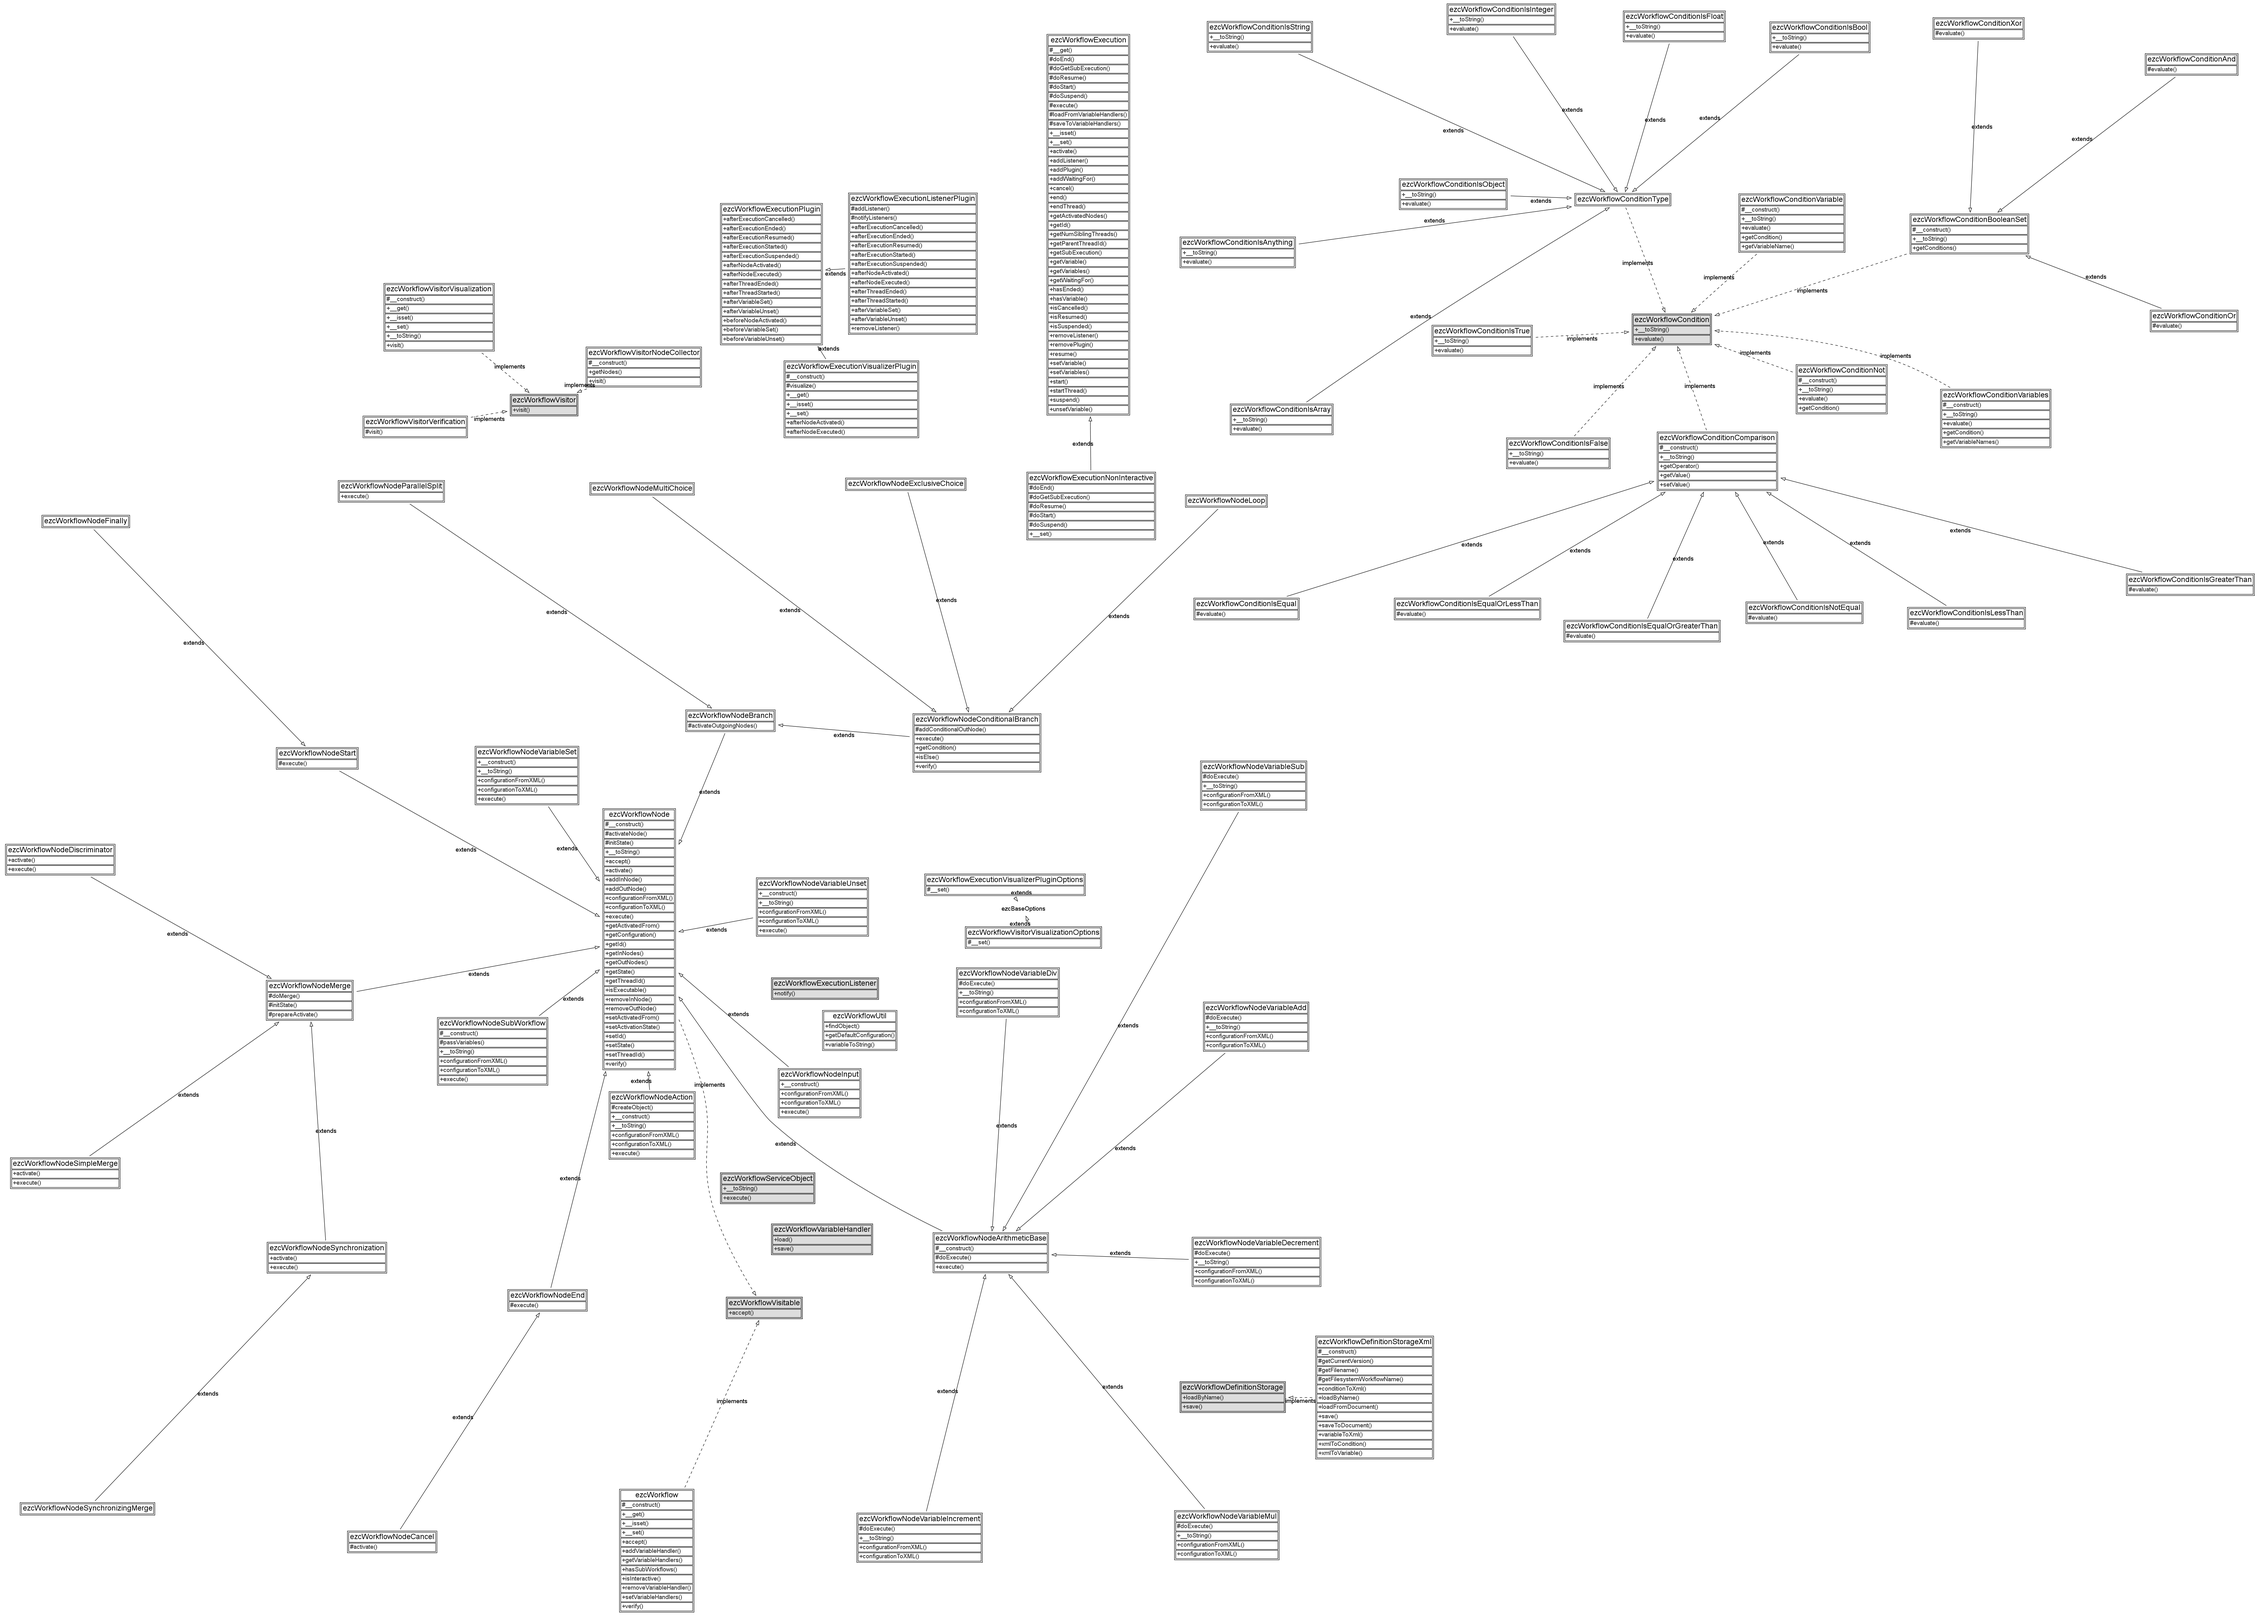
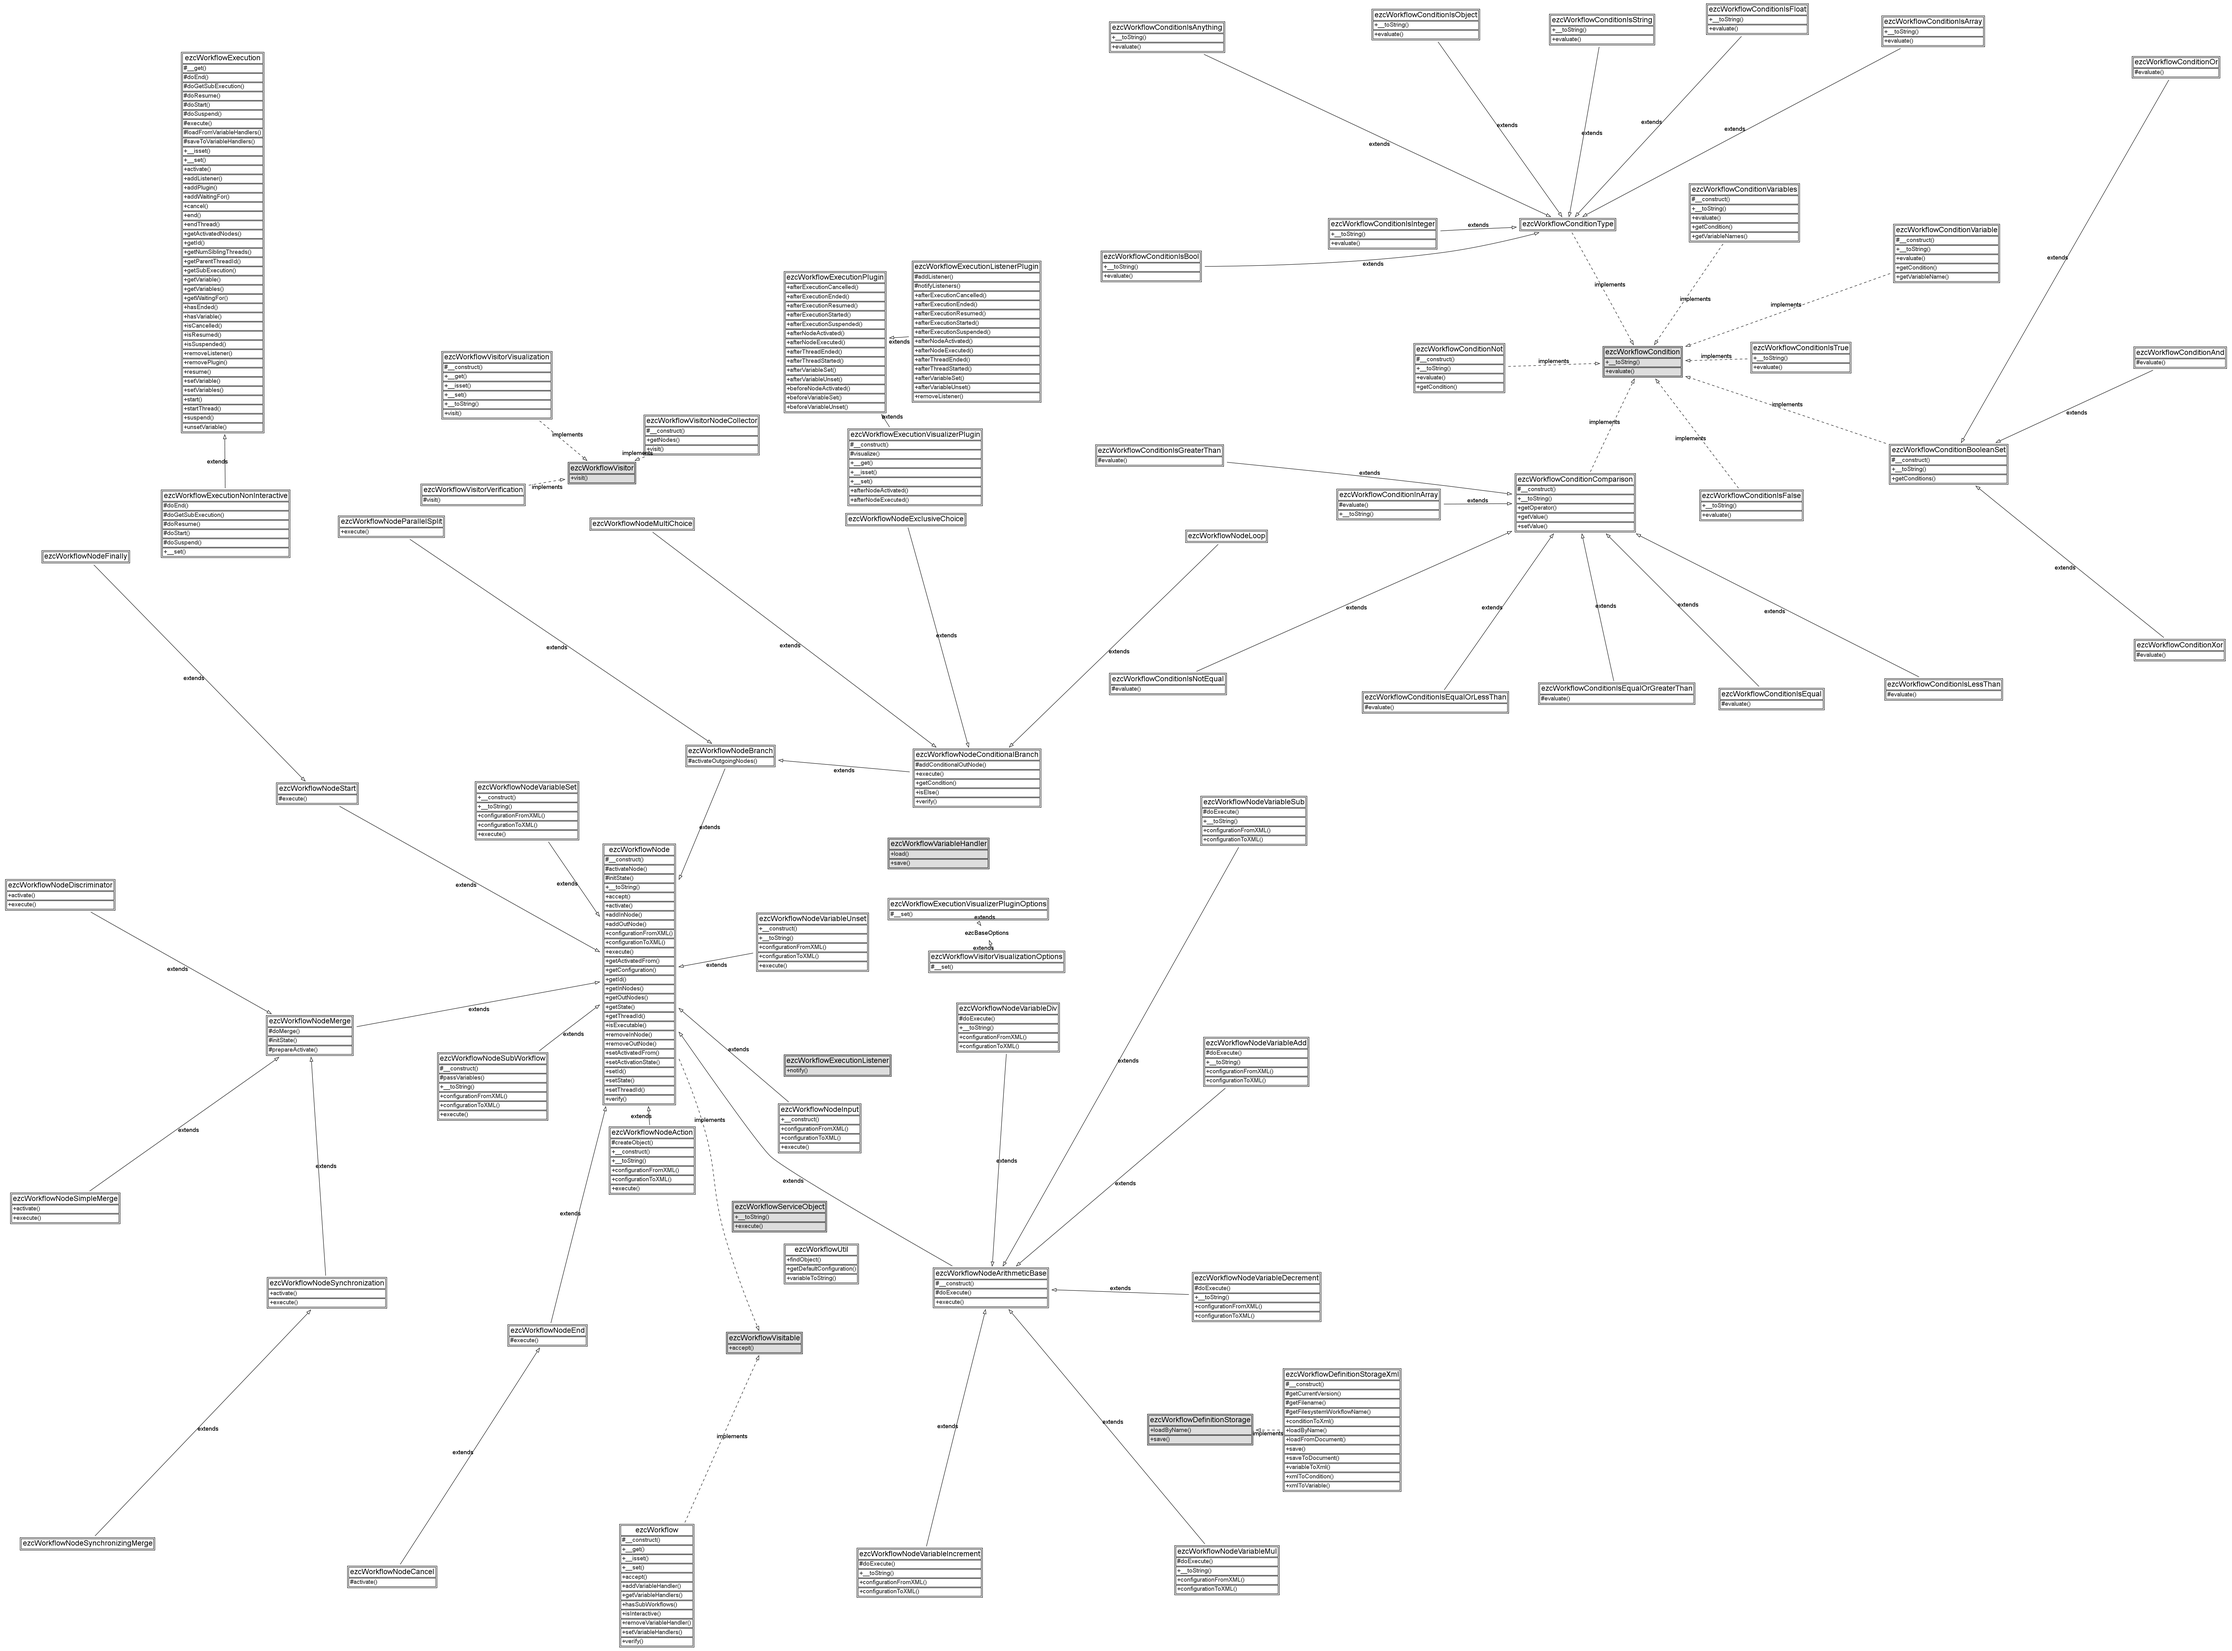
- Implemented issue #13204: Implement ezcWorkflowConditionInArray.
git-svn-id: https://svn.apache.org/repos/asf/incubator/zetacomponents/trunk@975789 13f79535-47bb-0310-9956-ffa450edef68

diff --git a/Workflow/src/conditions/in_array.php b/Workflow/src/conditions/in_array.php
@@ -1,0 +1,67 @@
+<?php
+/**
+ * File containing the ezcWorkflowConditionInArray class.
+ *
+ * @package Workflow
+ * @version //autogen//
+ * @copyright Copyright (C) 2005-2008 eZ systems as. All rights reserved.
+ * @license http://ez.no/licenses/new_bsd New BSD License
+ */
+
+/**
+ * Condition that checks if a value is in an array.
+ *
+ * Typically used together with ezcWorkflowConditionVariable to use the
+ * condition on a workflow variable.
+ *
+ * <code>
+ * <?php
+ * $condition = new ezcWorkflowConditionVariable(
+ *   'variable name',
+ *   new ezcWorkflowConditionInArray( array( ... ) )
+ * );
+ * ?>
+ * </code>
+ *
+ * @package Workflow
+ * @version //autogen//
+ */
+class ezcWorkflowConditionInArray extends ezcWorkflowConditionComparison
+{
+    /**
+     * @var mixed
+     */
+    protected $operator = 'in array';
+
+    /**
+     * Evaluates this condition with $value and returns true if it is false or false if it is not.
+     *
+     * @param  mixed $value
+     * @return boolean true when the condition holds, false otherwise.
+     * @ignore
+     */
+    public function evaluate( $value )
+    {
+        return in_array( $value, $this->value );
+    }
+
+    /**
+     * Returns a textual representation of this condition.
+     *
+     * @return string
+     * @ignore
+     */
+    public function __toString()
+    {
+        $array = $this->value;
+        $count = count( $array );
+
+        for ( $i = 0; $i < $count; $i++ )
+        {
+            $array[$i] = var_export( $array[$i], true );
+        }
+
+        return $this->operator . '(' . join( ', ', $array ) . ')';
+    }
+}
+?>

diff --git a/Workflow/tests/definition_xml_test.php b/Workflow/tests/definition_xml_test.php
@@ -53,6 +53,17 @@ class ezcWorkflowDefinitionStorageXmlTest extends ezcWorkflowTestCase
         );
     }
 
+    public function testSaveStartInputEnd2()
+    {
+        $this->setUpStartInputEnd2();
+        $this->definition->save( $this->workflow );
+
+        $this->assertEquals(
+          $this->readExpected( 'StartInputEnd2' ),
+          $this->readActual( 'StartInputEnd2' )
+        );
+    }
+
     public function testSaveStartSetEnd()
     {
         $this->setUpStartSetEnd();
@@ -348,6 +359,17 @@ class ezcWorkflowDefinitionStorageXmlTest extends ezcWorkflowTestCase
         $this->assertEquals(
           $this->readExpected( 'StartInputEnd' ),
           $this->readActual( 'StartInputEnd' )
+        );
+    }
+
+    public function testLoadStartInputEnd2()
+    {
+        $this->workflow = $this->definition->loadByName( 'StartInputEnd2' );
+        $this->definition->save( $this->workflow );
+
+        $this->assertEquals(
+          $this->readExpected( 'StartInputEnd2' ),
+          $this->readActual( 'StartInputEnd2' )
         );
     }
 

diff --git a/Workflow/src/definition_storage/xml.php b/Workflow/src/definition_storage/xml.php
@@ -419,6 +419,13 @@ class ezcWorkflowDefinitionStorageXml implements ezcWorkflowDefinitionStorage
                 $xmlCondition->setAttribute( 'value', $condition->getValue() );
             }
             break;
+
+            case 'ezcWorkflowConditionInArray': {
+                $xmlCondition->appendChild(
+                  self::variableToXml( $condition->getValue(), $document )
+                );
+            }
+            break;
         }
 
         return $xmlCondition;
@@ -482,6 +489,11 @@ class ezcWorkflowDefinitionStorageXml implements ezcWorkflowDefinitionStorage
             case 'ezcWorkflowConditionIsLessThan':
             case 'ezcWorkflowConditionIsNotEqual': {
                 return new $class( $element->getAttribute( 'value' ) );
+            }
+            break;
+
+            case 'ezcWorkflowConditionInArray': {
+                return new $class( self::xmlToVariable( $element->childNodes->item( 1 ) ) );
             }
             break;
 

diff --git a/Workflow/tests/case.php b/Workflow/tests/case.php
@@ -67,6 +67,15 @@ abstract class ezcWorkflowTestCase extends ezcTestCase
         $this->workflow->addVariableHandler( 'foo', 'ezcWorkflowTestVariableHandler' );
     }
 
+    protected function setUpStartInputEnd2()
+    {
+        $this->workflow = new ezcWorkflow( 'StartInputEnd2' );
+        $inputNode = new ezcWorkflowNodeInput( array( 'variable' => new ezcWorkflowConditionInArray( array( '1', 2, 3 ) ) ) );
+
+        $this->workflow->startNode->addOutNode( $inputNode );
+        $this->workflow->endNode->addInNode( $inputNode );
+    }
+
     protected function setUpStartSetEnd()
     {
         $this->workflow = new ezcWorkflow( 'StartSetEnd' );

diff --git a/Workflow/src/workflow_autoload.php b/Workflow/src/workflow_autoload.php
@@ -34,6 +34,7 @@ return array(
     'ezcWorkflowVisitor'                          => 'Workflow/interfaces/visitor.php',
     'ezcWorkflow'                                 => 'Workflow/workflow.php',
     'ezcWorkflowConditionAnd'                     => 'Workflow/conditions/and.php',
+    'ezcWorkflowConditionInArray'                 => 'Workflow/conditions/in_array.php',
     'ezcWorkflowConditionIsAnything'              => 'Workflow/conditions/is_anything.php',
     'ezcWorkflowConditionIsArray'                 => 'Workflow/conditions/is_array.php',
     'ezcWorkflowConditionIsBool'                  => 'Workflow/conditions/is_bool.php',

diff --git a/Workflow/tests/condition_test.php b/Workflow/tests/condition_test.php
@@ -18,6 +18,14 @@ class ezcWorkflowConditionTest extends ezcTestCase
         return new PHPUnit_Framework_TestSuite( 'ezcWorkflowConditionTest' );
     }
 
+    public function testInArray()
+    {
+        $condition = new ezcWorkflowConditionInArray( array( '1', 2, 3 ) );
+        $this->assertTrue( $condition->evaluate( 1 ) );
+        $this->assertFalse( $condition->evaluate( 4 ) );
+        $this->assertEquals( "in array('1', 2, 3)", $condition->__toString() );
+    }
+
     public function testIsAnything()
     {
         $condition = new ezcWorkflowConditionIsAnything;
